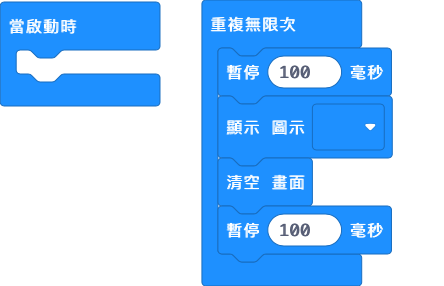
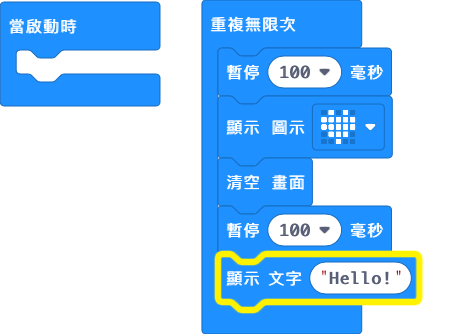
add  hello

diff --git a/main.ts b/main.ts
@@ -3,4 +3,5 @@ basic.forever(function () {
     basic.showIcon(IconNames.Heart)
     basic.clearScreen()
     basic.pause(100)
+    basic.showString("Hello!")
 })
